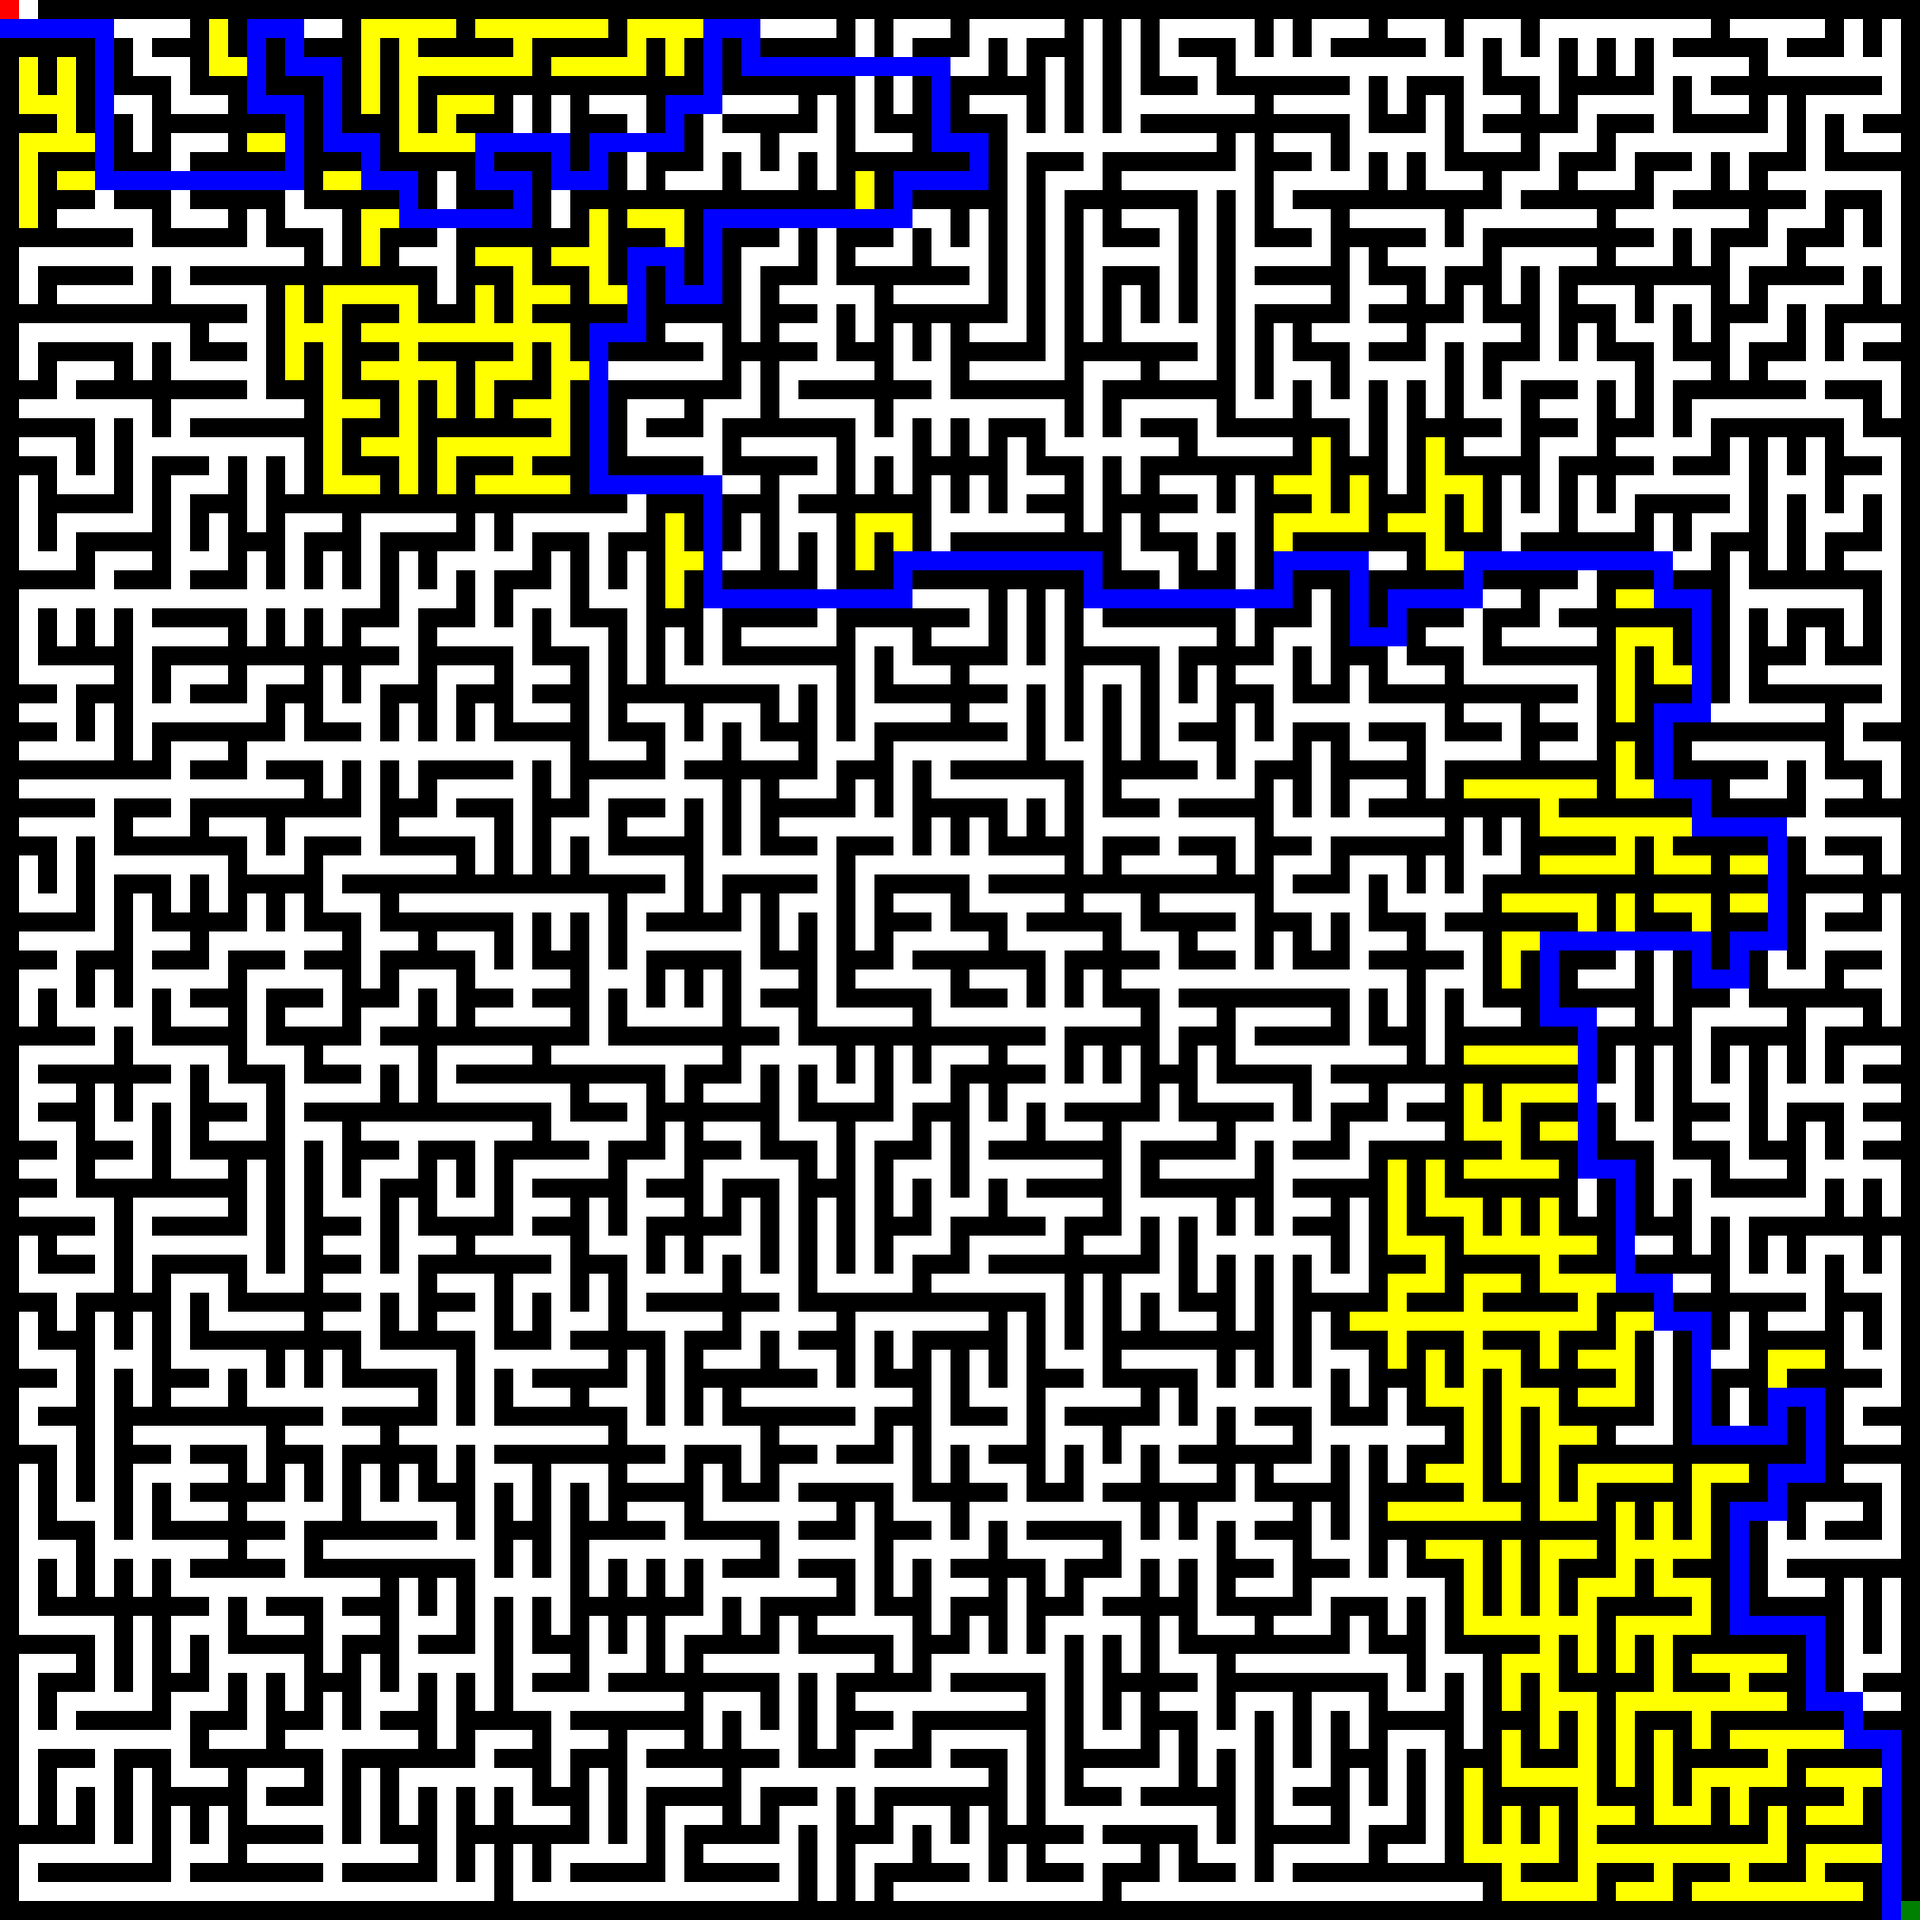
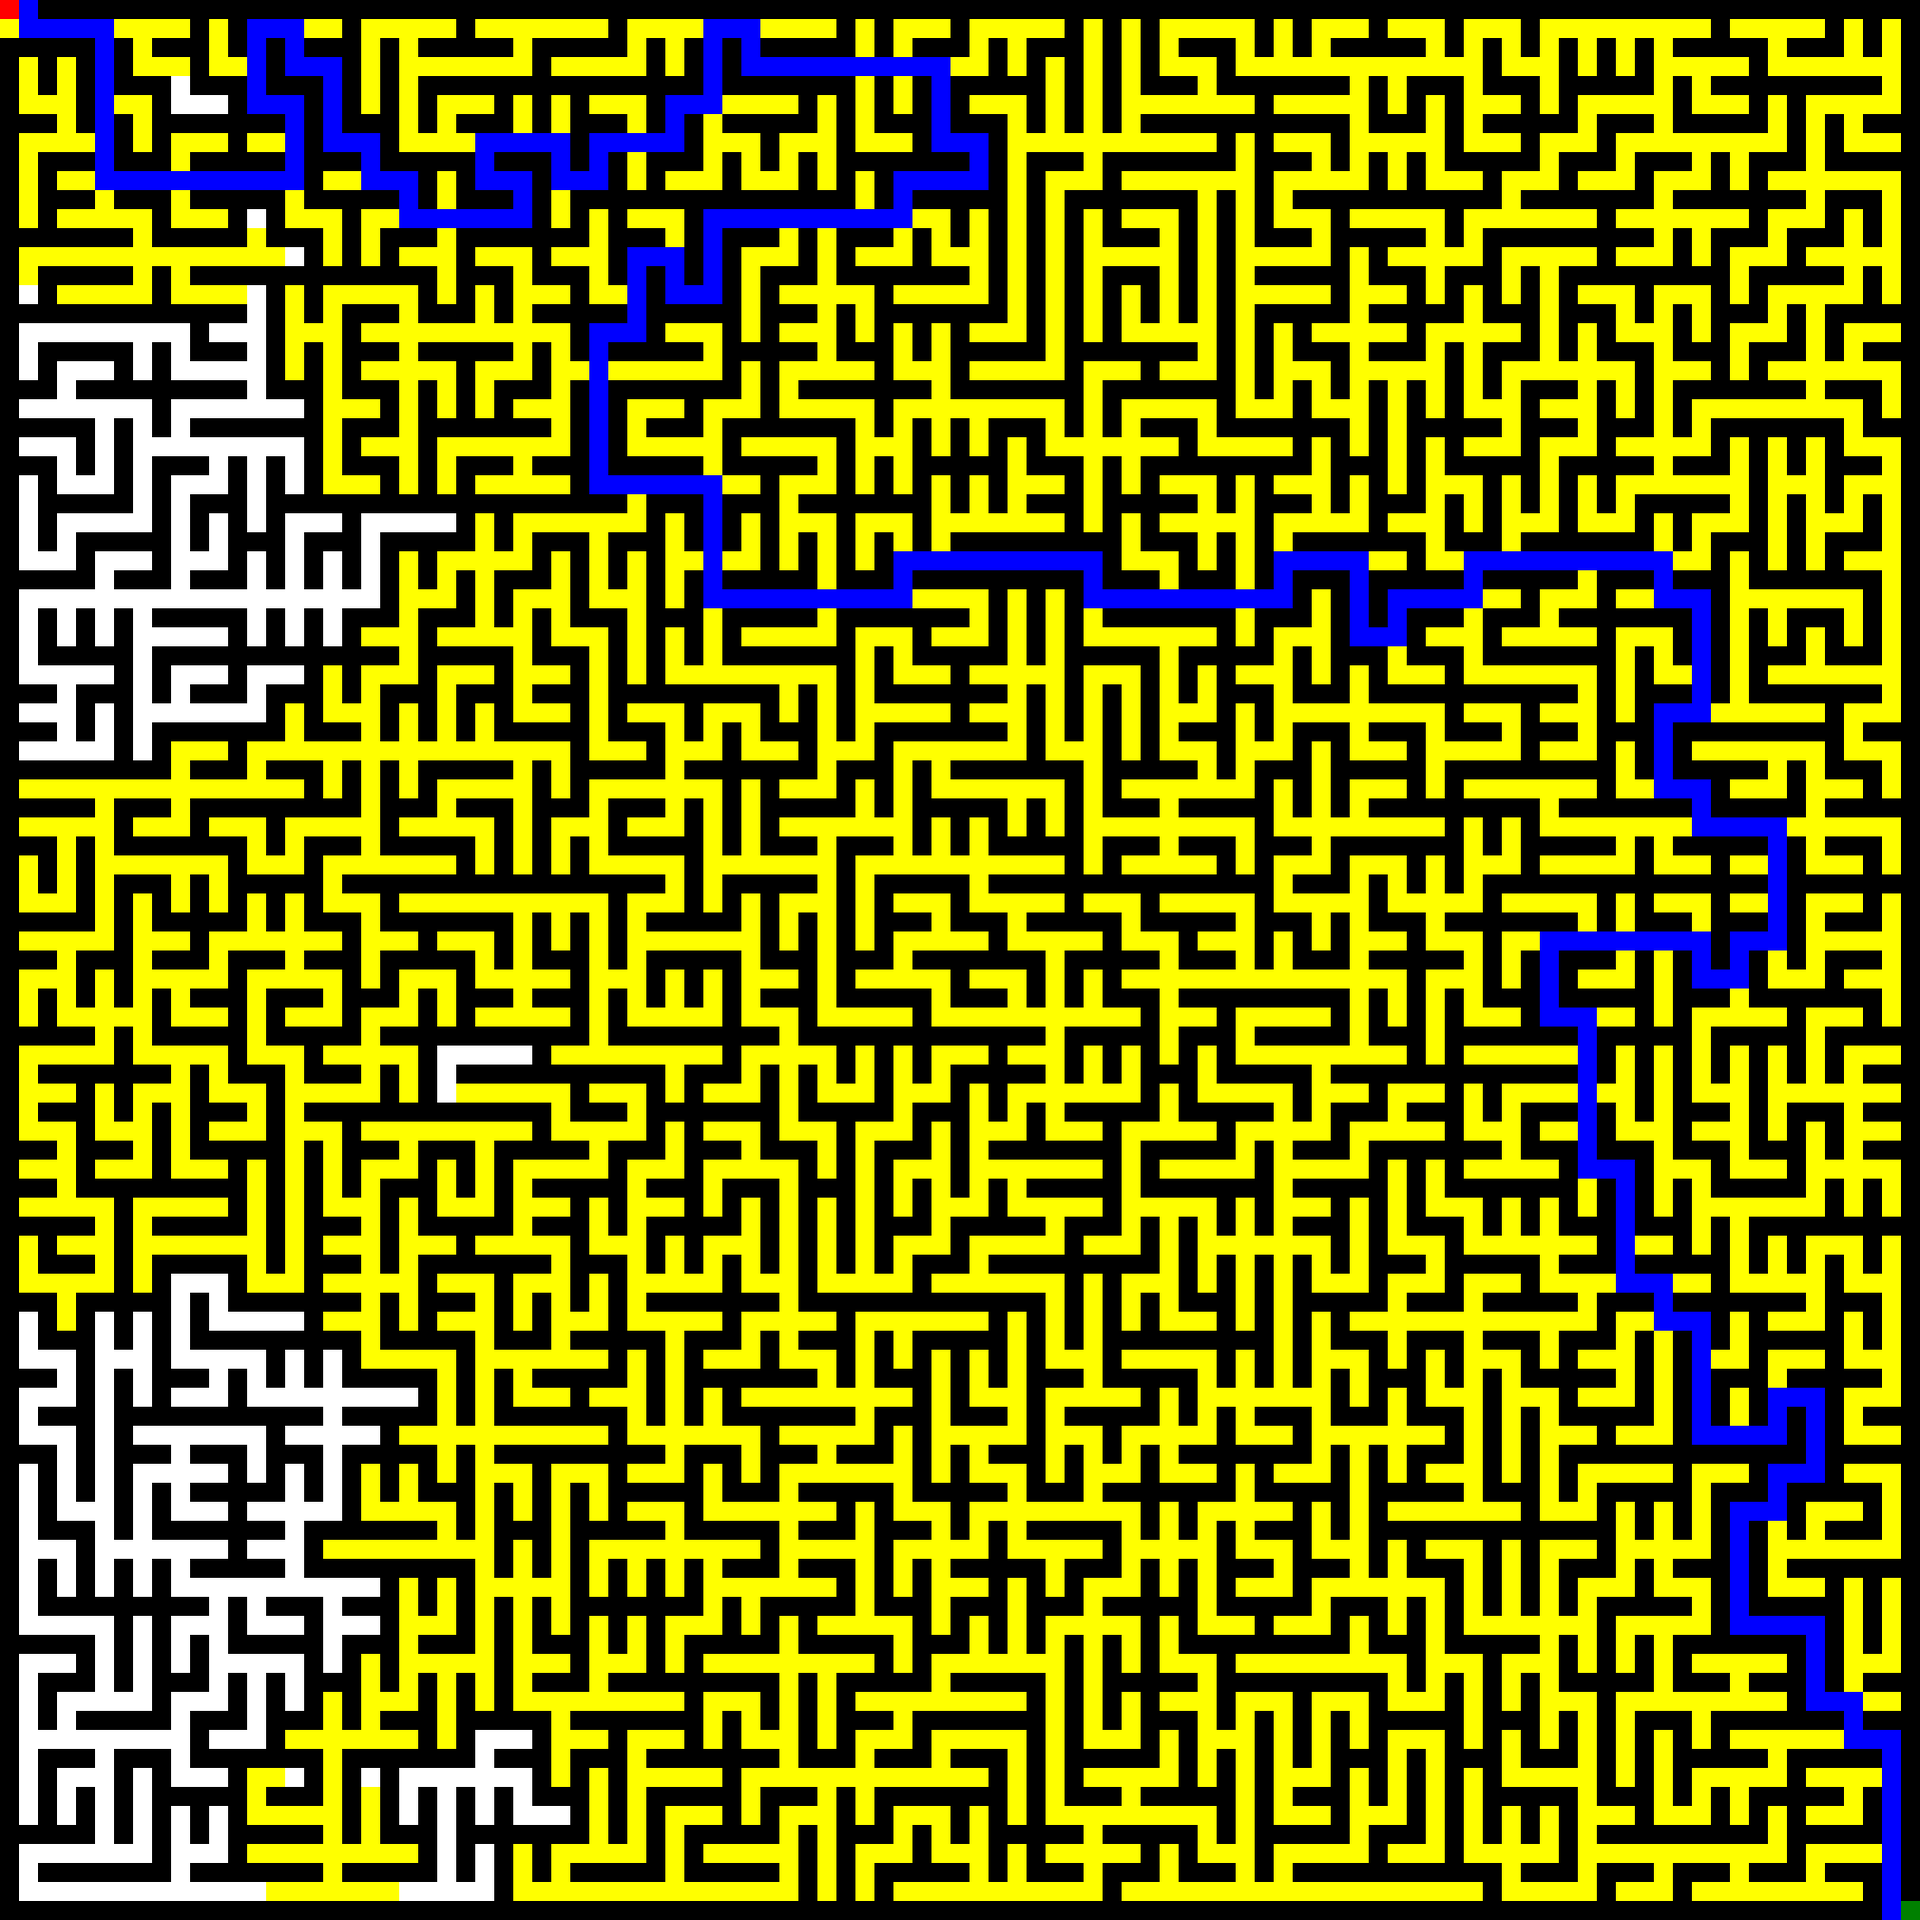
.

diff --git a/main.py b/main.py
@@ -75,11 +75,6 @@ class MazePrinter:
         self.height = len(maze)
         self.width = len(maze[0])
 
-    def __repr__(self):
-        return "\n".join(
-            "".join(str(block.value) for block in row) for row in self.maze
-        )
-
     def _maze_with_explored(self, explored: set[tuple[int]], maze: Maze) -> Maze:
         new_maze: list[tuple[Block]] = []
         for i, row in enumerate(maze):
@@ -253,7 +248,7 @@ class MazeParser:
 def main():
     with open("maze3.txt") as mazeFile:
         maze = MazeParser.parseFile(mazeFile)
-        solver = MazeSolver(StackFrontire(), maze)
+        solver = MazeSolver(QueueFrontire(), maze)
         path = solver.solve()
         maze_printer = MazePrinter(maze)
         image = maze_printer.create_image(explored=solver.explored, path=path)
